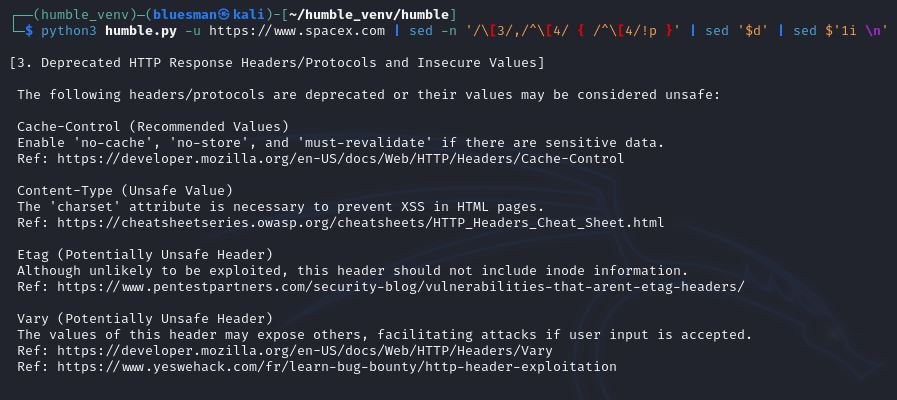
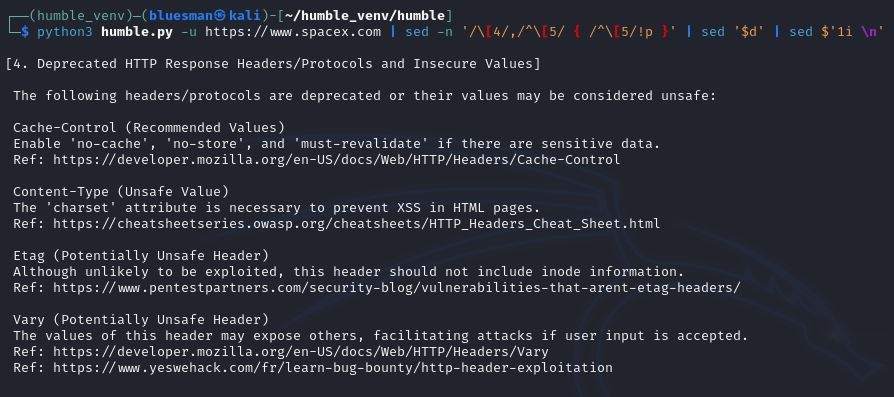
Minor: Screenshots updated

diff --git a/README.md b/README.md
@@ -316,7 +316,7 @@ $ python3 humble.py -u https://www.spacex.com | grep -A8 -E "0. Info|\!." | grep
 .: (Linux) - Show only the deprecated headers/protocols and insecure values.<br />
 
 ```
-$ python3 humble.py -u https://www.spacex.com | sed -n '/\[3/,/^\[4/ { /^\[4/!p }' | sed '$d' | sed $'1i \n'
+$ python3 humble.py -u https://www.spacex.com | sed -n '/\[4/,/^\[5/ { /^\[5/!p }' | sed '$d' | sed $'1i \n'
 ```
 <img src="https://github.com/rfc-st/humble/blob/master/screenshots/humble_adv_linux_3.jpg" alt="Show only the deprecated headers/protocols and insecure values (Linux)">
 
